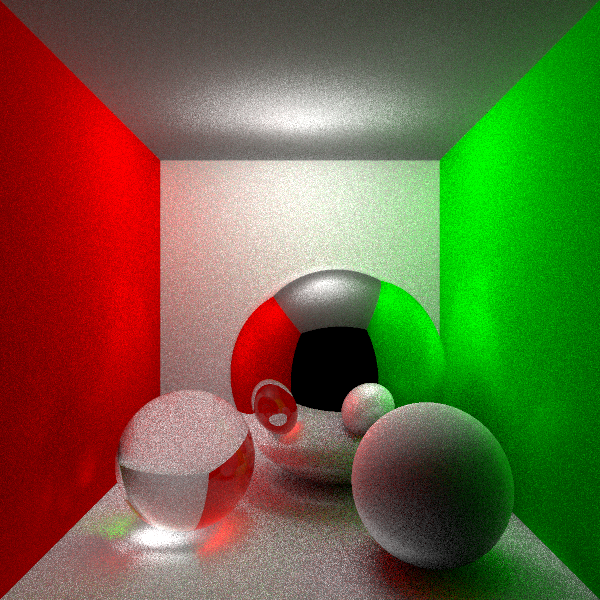
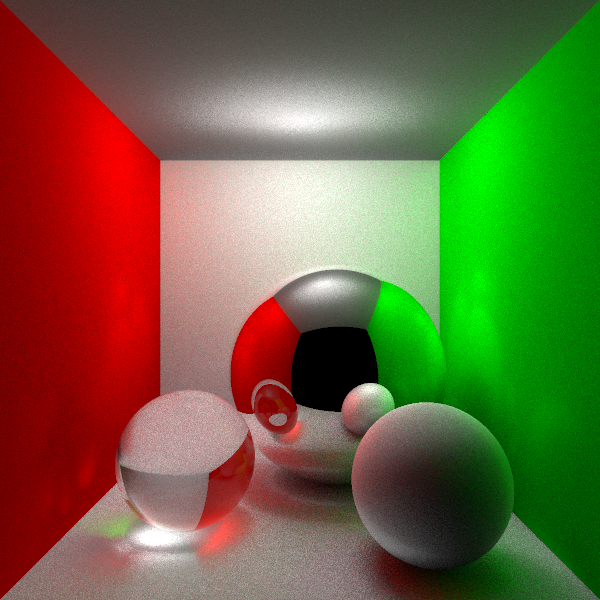
GI and arealight high samples test

diff --git a/Light.py b/Light.py
@@ -19,7 +19,7 @@ class PointLight(Light):
 
 
 class DiskLight(Light):
-	def __init__(self,pos,radius,intensity = 6, color = Vector(1,1,1),samples = 8,normal=Vector(0,-1,0)):
+	def __init__(self,pos,radius,intensity = 6, color = Vector(1,1,1),samples = 32,normal=Vector(0,-1,0)):
 		super().__init__(pos,intensity,color)
 		self.type = 'Area'
 		self.radius = radius
